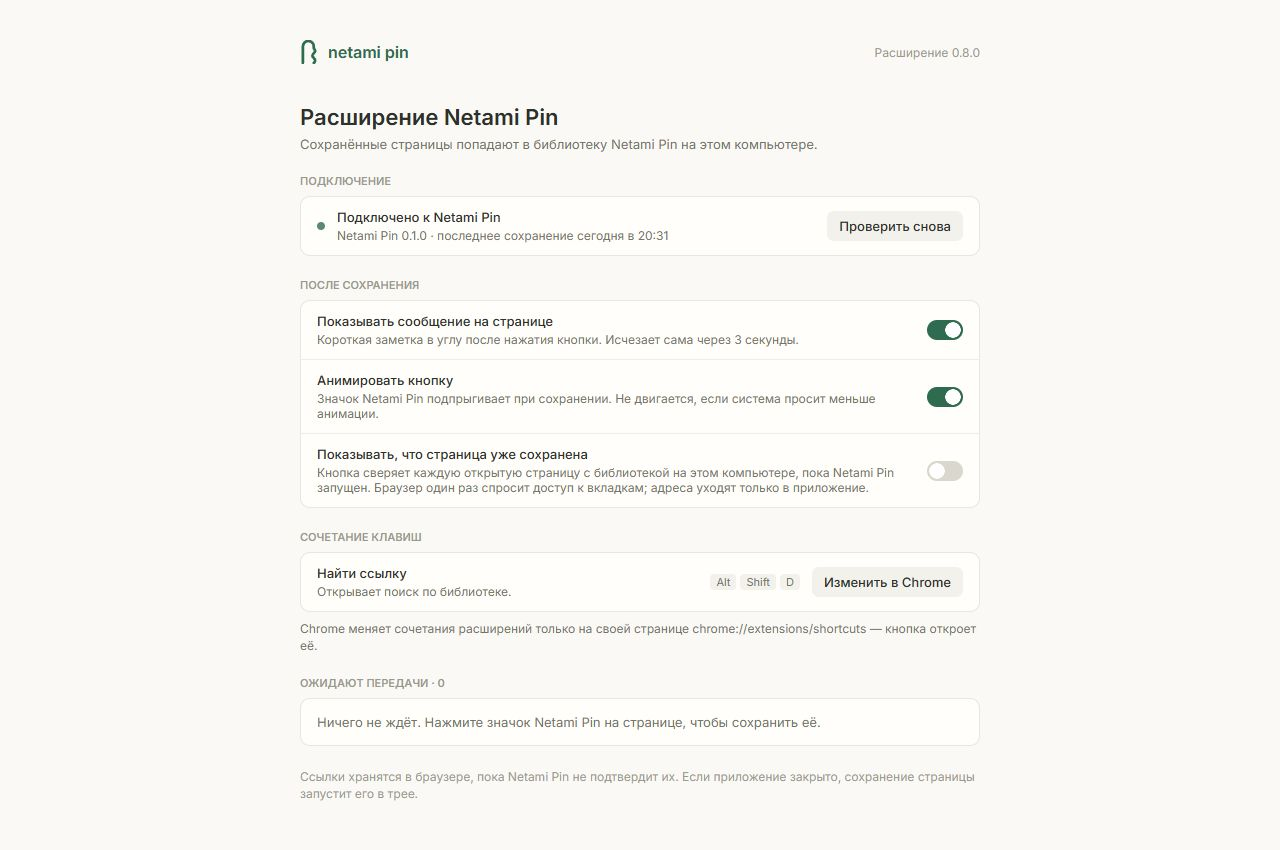
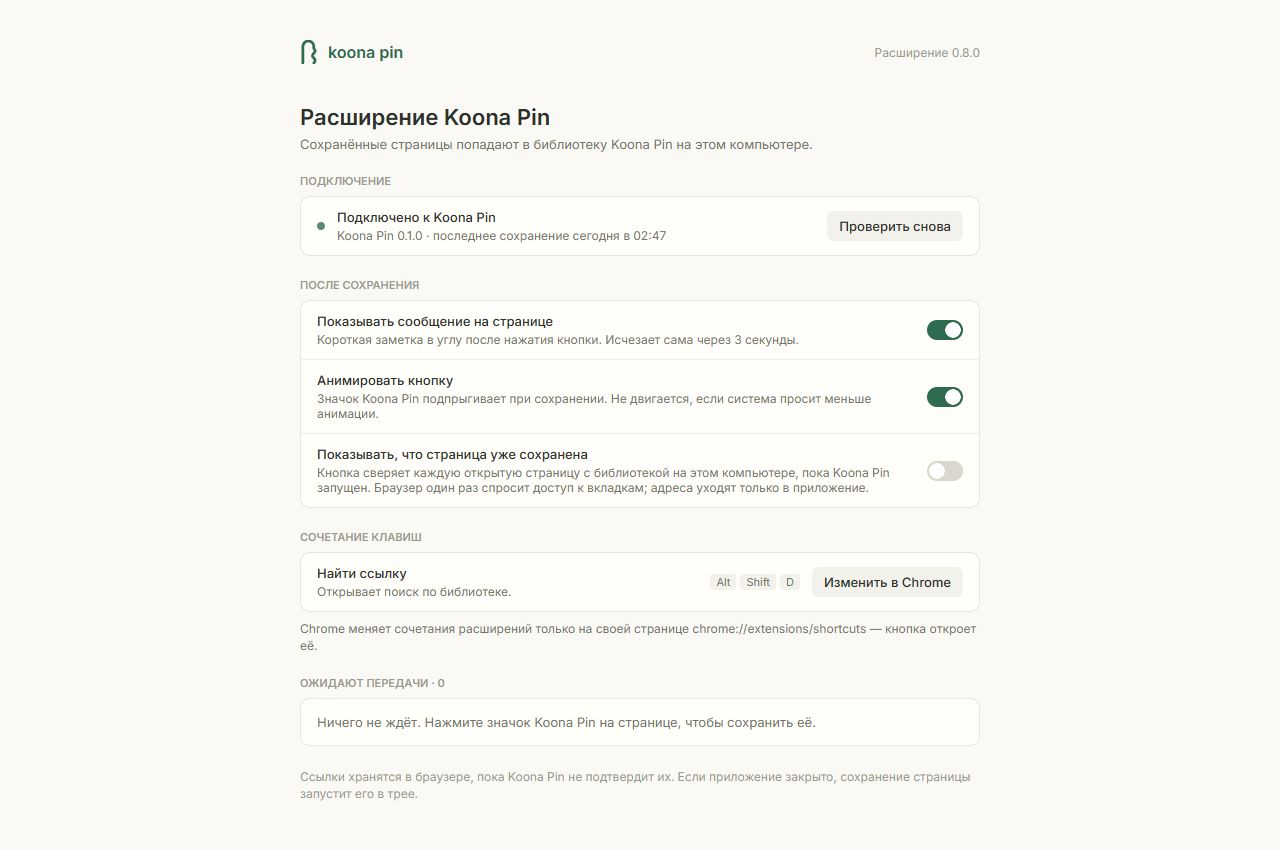
docs: drop the old name from the concept shots and the decision record
The extension settings and app window shots in doc/concepts still showed
the old wordmark; test:extension and test:native retook them. Р-47 keeps
the story of the rename without naming the old brand or repository.

diff --git a/doc/decisions.md b/doc/decisions.md
@@ -920,13 +920,13 @@
 
 ## Р-47. Koona: домен koona.app и приложения путями, открытый код
 
-7 октября 2026 года. Решение владельца после инцидента с прежним доменом: бренд Netami и всё, что с ним связано, отменяются. Продукт выпусков ещё не имел, поэтому переименование сделано целиком, без совместимости со старыми именами.
+7 октября 2026 года. Решение владельца после инцидента с прежним доменом: прежний бренд и всё, что с ним связано, отменяются. Продукт выпусков ещё не имел, поэтому переименование сделано целиком, без совместимости со старыми именами.
 
 **Решение:**
 
 1. **Бренд — Koona, продукт — Koona Pin.** Идентификаторы: `identifier` и имя native messaging host `app.koona.pin`, EXE `koonapin.exe` и `koonapin-host.exe`, база `koonapin.db`, папка данных `%APPDATA%\Koona Pin`, id расширения Firefox `pin@koona.app`, канал захвата `\\.\pipe\koonapin-<SID>`, формат JSON-копии `koona-pin`, переменные окружения `KOONAPIN_*`. Правило [Р-9](#р-9-распространение-windows) «не менять после первого публичного установщика» действует для новых имён.
 2. **Один домен, приложения — путями.** `koona.app` — общая главная, каждое приложение — свой раздел: `koona.app/pin/`, язык — следующим сегментом (`/pin/ru/`), разделы — внутри языка (`/pin/ru/downloads/`). Поддомены не используются: один сертификат и один блок Caddy, ссылки и репутация в поиске копятся на одном домене. Сайт приложения собирается в своём репозитории и выкладывается в свою папку; `site/Caddyfile` — фрагмент, который владелец импортирует внутрь блока `koona.app` ([site.md](site.md#выкладка)). Корень `koona.app`, его `robots.txt` и журнал — вне этого репозитория.
-3. **Одно хранилище кода и выпусков.** Репозиторий `andmetoo/netami-pin` переименован в `andmetoo/koona-pin`; отдельный репозиторий выпусков закрыт. Выпуски, `latest.json`, issues с формами и `SECURITY.md` — в `andmetoo/koona-pin`.
+3. **Одно хранилище кода и выпусков.** Репозиторий кода переименован в `andmetoo/koona-pin`; отдельный репозиторий выпусков закрыт. Выпуски, `latest.json`, issues с формами и `SECURITY.md` — в `andmetoo/koona-pin`.
 4. **Открытый код.** Репозиторий станет публичным; лицензия — [Р-48](#р-48-лицензия-open-core-agpl-30-cla-и-товарный-знак).
 
 **Последствия:** адреса сайта, функция отзывов, обновления Firefox и ссылки приложения и расширения ведут на `koona.app/pin/`. Функция отзывов сверяет `Origin` с `https://koona.app` (браузер не передаёт путь), поэтому форму принимает любая страница домена — домен целиком у владельца. Одно происхождение для всех приложений домена: cookies, `localStorage` и Service Worker общие, поэтому веб-приложение с входом или пользовательским содержимым, если появится, выносится на свой поддомен, а лендинги остаются путями. Надпись «koona pin» на сайте (`site/src/brand/wordmark.svg`), скриншоты сайта и магазинов, макеты Lunacy и Sketch-файлы бренда пересобираются отдельно: в них остался прежний текст.
